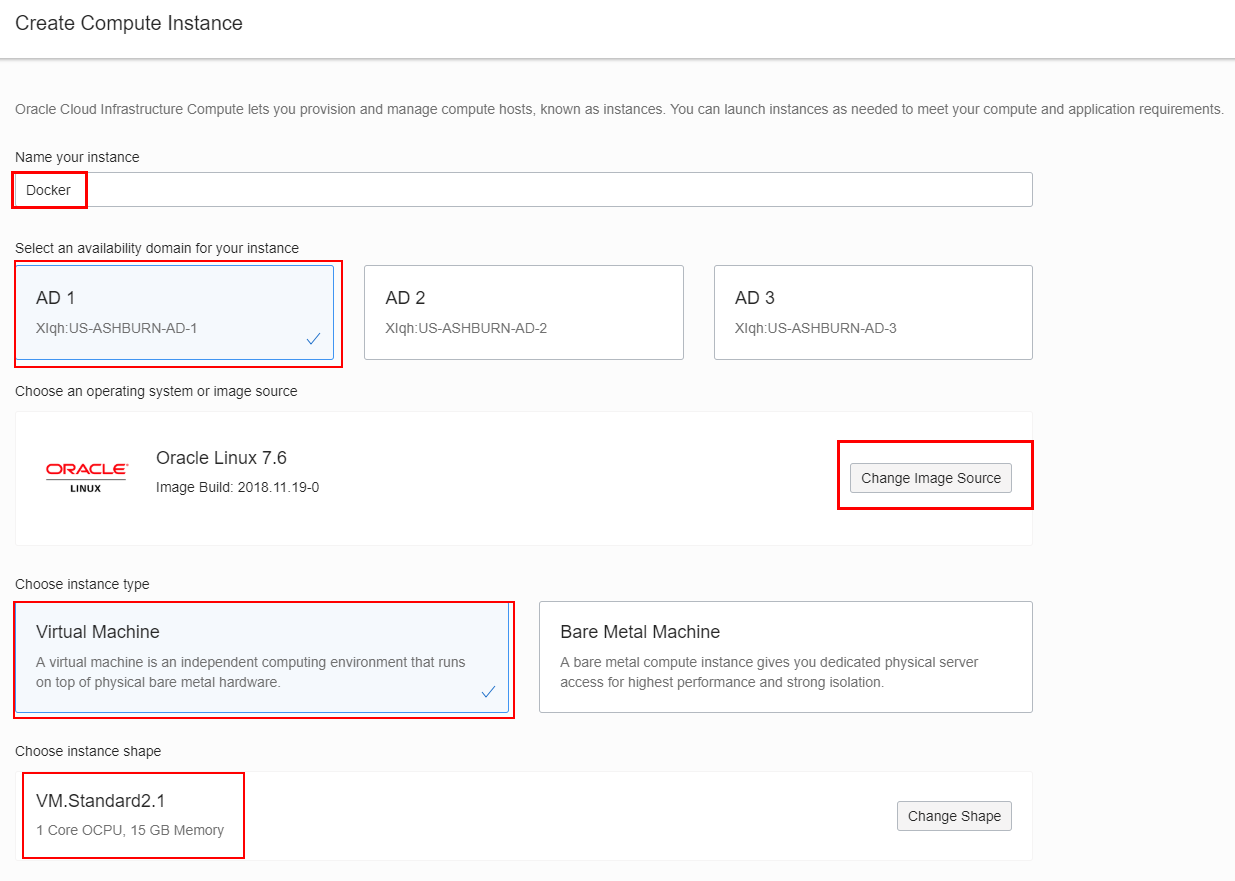
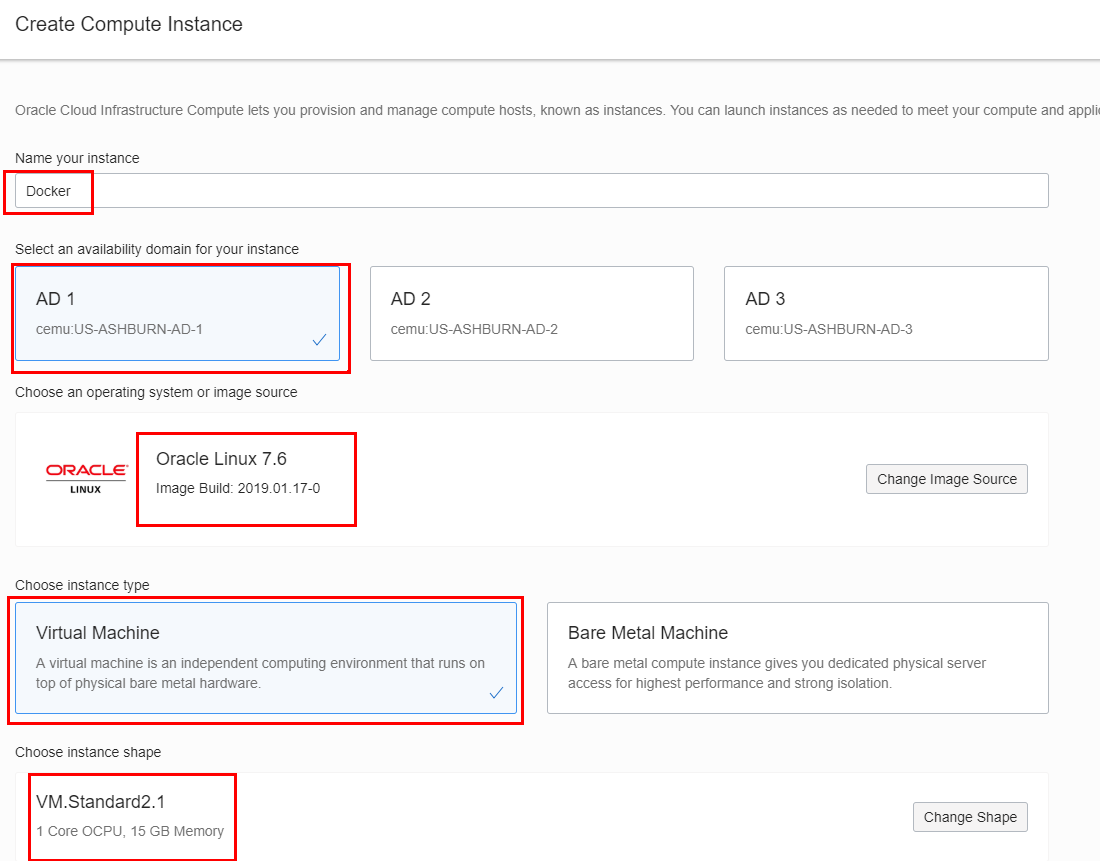
Updates to Lab 200

diff --git a/lab-guides/LabGuide200.md b/lab-guides/LabGuide200.md
@@ -200,23 +200,15 @@ You will now create a Linux based Compute instance using the public key you just
 Name: Docker
 Availability Domain: AD 1 (Use default AD 1)
 Boot Volume: Oracle-Provided OS Image
-Image Operating System: Oracle Linux 7.5 (Select Oracle Linux 7.5)
+Image Operating System: Oracle Linux 7.6 (Default)
 Shape Type: Virtual Machine (Default)
 Shape: VM.Standard2.1 (Default)
 SSH Keys: Choose SSH Key Files
 ```
 
-- After entering the _Docker_ instance name click the **Change Image Source**.
+- After entering the _Docker_ instance name.
 
    ![](images/200/27-2.PNG)
-
-- Select **Oracle Linux 7.5** and click **Select Image**.
-
-   ![](images/200/27-4.PNG)
-
-- This selection will now be shown on the page:
-
-   ![](images/200/27-6.PNG)
 
 - Scroll down furthur on the page and select your PUBLIC SSH Key
 **NOTE:** You will paste the public key you copied in Step 6 into the SSH KEY field by selecting the "Paste SSH Keys" radio button. `The public key should all be on ONE LINE`
